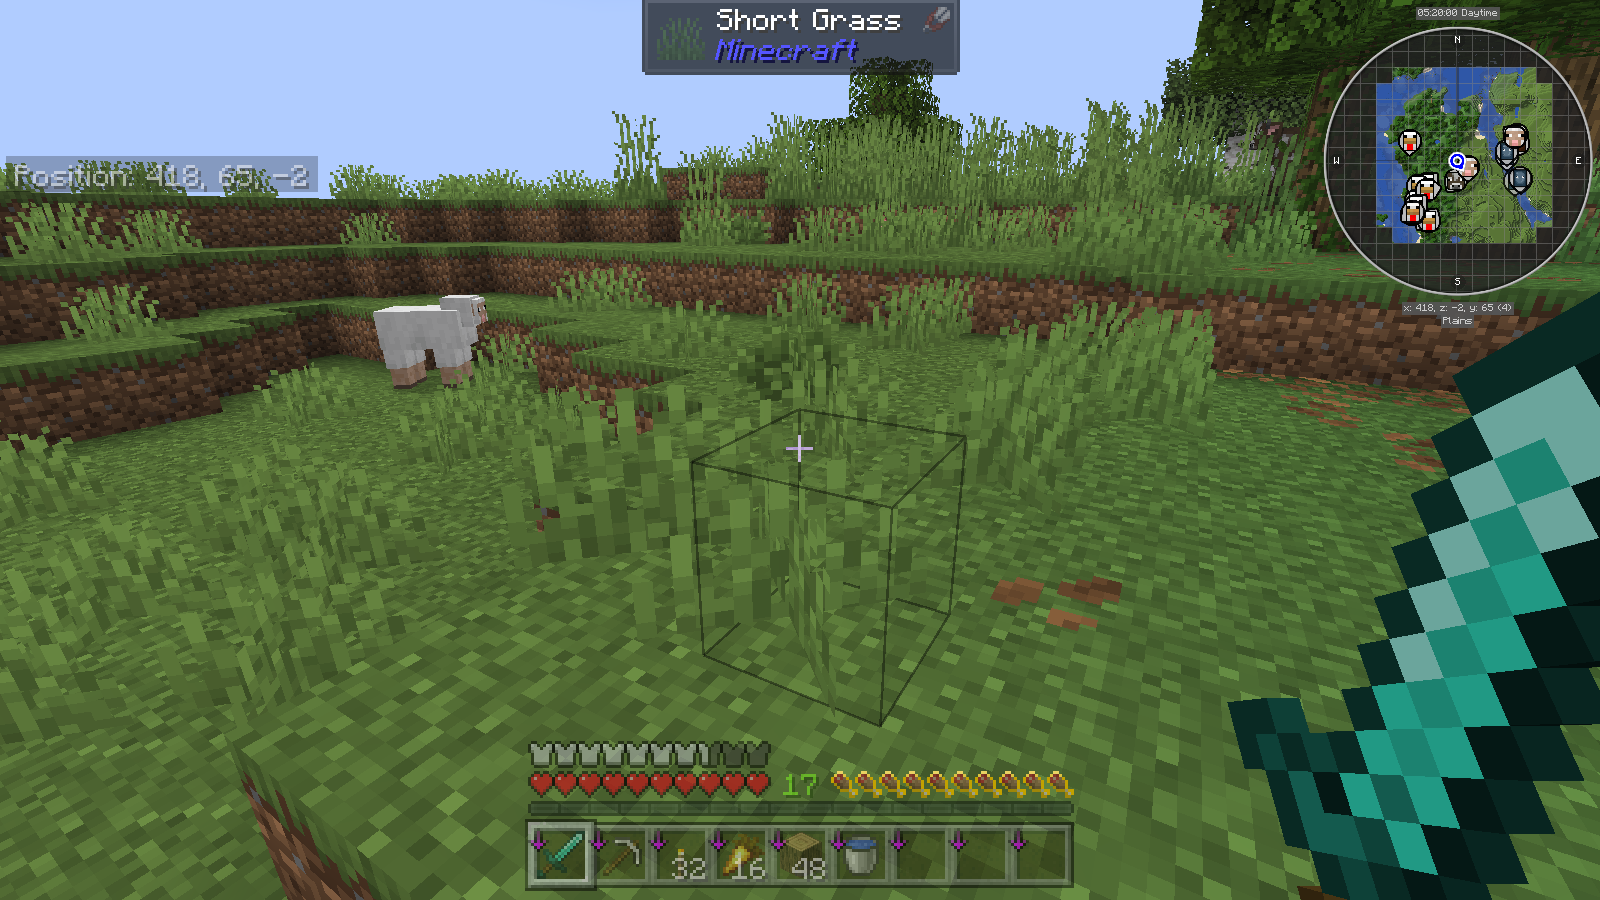
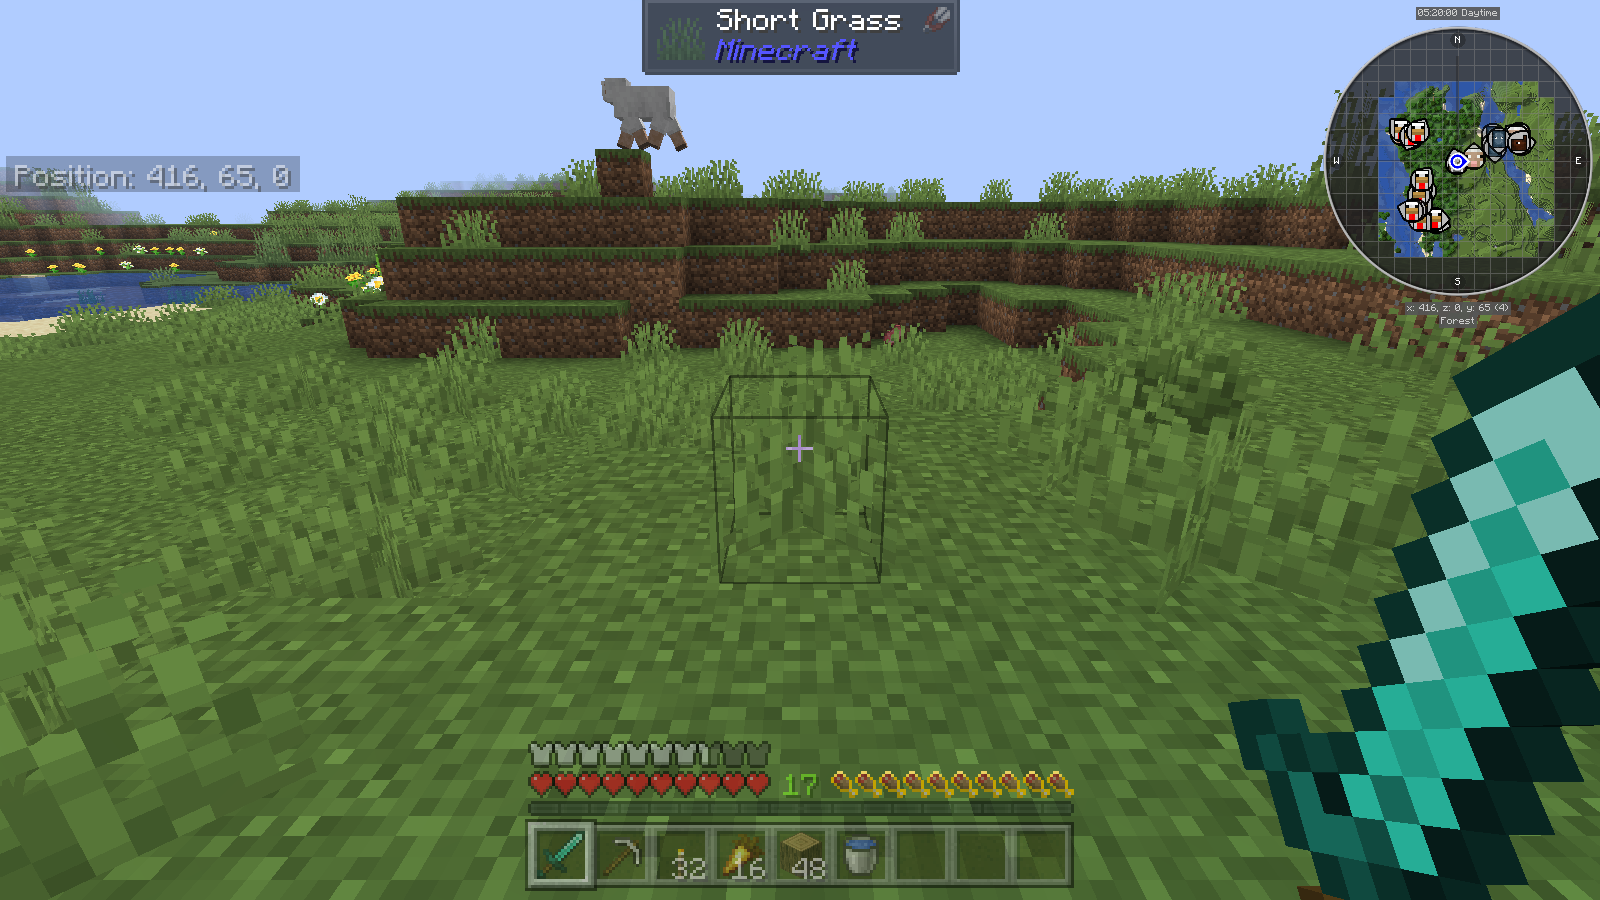
Reshoot page media with the author's settings; add a sway-only clip

diff --git a/src/gametest/java/io/github/irfanadli97/tvomf/test/MediaShoot.java b/src/gametest/java/io/github/irfanadli97/tvomf/test/MediaShoot.java
@@ -29,6 +29,7 @@ import net.minecraft.util.Mth;
  */
 public class MediaShoot implements FabricClientGameTest {
 	static final String REQUEST = "media_request.txt";
+	private static boolean configured;
 	private static final int WIDTH = 1600;
 	private static final int HEIGHT = 900;
 	private static final double CLIP_SECONDS = 5.0;
@@ -49,7 +50,11 @@ public class MediaShoot implements FabricClientGameTest {
 		Path out;
 
 		try {
-			set = Files.readString(gameDir.resolve(REQUEST)).trim();
+			// First line: the name of the set. Second line, optional: "configured" to shoot with
+			// the settings in config/tvomf.json instead of the defaults.
+			List<String> request = Files.readAllLines(gameDir.resolve(REQUEST));
+			set = request.get(0).trim();
+			configured = request.size() > 1 && request.get(1).trim().equals("configured");
 			out = gameDir.resolve("media").resolve(set);
 			Files.createDirectories(out);
 		} catch (IOException e) {
@@ -117,18 +122,34 @@ public class MediaShoot implements FabricClientGameTest {
 			// Long enough for toasts and first-run chat lines from other mods to go away.
 			context.waitTicks(320);
 
-			still(context, set + "_1_visor_sphere", config -> {
+			still(context, set + "_1_as_configured", config -> {
 			});
-			still(context, set + "_2_visor_cylinder", config -> config.curveShape = MotionHudConfig.SHAPE_CYLINDER);
-			still(context, set + "_3_visor_sphere_strong", config -> config.curveStrength = 70);
+			still(context, set + "_2_sphere_strong", config -> {
+				config.curveShape = MotionHudConfig.SHAPE_SPHERE;
+				config.curveStrength = 70;
+			});
+			still(context, set + "_3_cylinder_strong", config -> {
+				config.curveShape = MotionHudConfig.SHAPE_CYLINDER;
+				config.curveStrength = 70;
+			});
 			still(context, set + "_4_flat_for_comparison", config -> config.curveEnabled = false);
 
-			clip(context, out, baseYaw);
+			walkClip(context, out, baseYaw);
+			context.waitTicks(40);
+			flickClip(context, out, baseYaw);
 			write(gameDir.resolve("media_done.txt"), List.of(set));
 		}
 	}
 
 	/** The mod's default settings, so the pictures show what a new install looks like. */
+	private static void baseline() {
+		if (configured) {
+			MotionHudConfig.load();
+		} else {
+			defaults(MotionHudConfig.get());
+		}
+	}
+
 	private static void defaults(MotionHudConfig config) {
 		config.resetSway();
 		config.swayEnabled = true;
@@ -142,17 +163,16 @@ public class MediaShoot implements FabricClientGameTest {
 
 	private static void still(ClientGameTestContext context, String name, Consumer<MotionHudConfig> change) {
 		context.runOnClient(minecraft -> {
-			MotionHudConfig config = MotionHudConfig.get();
-			defaults(config);
-			change.accept(config);
+			baseline();
+			change.accept(MotionHudConfig.get());
 			HudSway.setTestOffset(Float.NaN, Float.NaN);
 		});
 		context.waitTicks(20);
 		context.takeScreenshot(name);
 	}
 
-	private static void clip(ClientGameTestContext context, Path out, float baseYaw) {
-		context.runOnClient(minecraft -> defaults(MotionHudConfig.get()));
+	private static void walkClip(ClientGameTestContext context, Path out, float baseYaw) {
+		context.runOnClient(minecraft -> baseline());
 		context.waitTicks(20);
 
 		context.runOnClient(minecraft -> FrameCapture.start(out.resolve("clip.raw"), out.resolve("clip.meta"), CLIP_SECONDS, CLIP_FPS,
@@ -185,6 +205,40 @@ public class MediaShoot implements FabricClientGameTest {
 
 		context.getInput().releaseKey(options -> options.keySprint);
 		context.getInput().releaseKey(options -> options.keyUp);
+	}
+
+	/** Standing still and flicking the view hard from side to side: nothing but the sway. */
+	private static void flickClip(ClientGameTestContext context, Path out, float walkYaw) {
+		context.runOnClient(minecraft -> baseline());
+		// The walk ended somewhere else, so find an open view again.
+		float baseYaw = context.computeOnClient(MediaShoot::clearestYaw);
+		context.runOnClient(minecraft -> {
+			minecraft.player.setYRot(baseYaw);
+			minecraft.player.setXRot(9.0f);
+		});
+		context.waitTicks(30);
+
+		context.runOnClient(minecraft -> FrameCapture.start(out.resolve("flick.raw"), out.resolve("flick.meta"), CLIP_SECONDS, CLIP_FPS,
+				time -> new float[] {baseYaw + flick(time), 9.0f}));
+
+		while (!FrameCapture.finished()) {
+			context.waitTick();
+		}
+	}
+
+	private static final double[] FLICK_TIMES = {0.4, 0.9, 1.4, 1.9, 2.5, 2.8, 3.1, 3.4, 4.0};
+	private static final float[] FLICK_ANGLES = {50, -50, 50, -50, 30, -30, 30, -30, 0};
+	/** Seconds one flick takes; about as fast as a wrist does it. */
+	private static final double FLICK_SECONDS = 0.1;
+
+	private static float flick(double time) {
+		float angle = 0;
+
+		for (int i = 0; i < FLICK_TIMES.length; i++) {
+			angle = Mth.lerp(ease(time, FLICK_TIMES[i], FLICK_TIMES[i] + FLICK_SECONDS), angle, FLICK_ANGLES[i]);
+		}
+
+		return angle;
 	}
 
 	/** The direction with the most open space ahead, so the camera is not staring at a tree. */

diff --git a/README.md b/README.md
@@ -15,16 +15,24 @@ your face, and the visor moves when you do.
 
 ## See it move
 
-Just this mod, on the vanilla HUD. Look right, snap left, jump, then sprint:
+Just the sway: standing still and flicking the mouse hard from side to side.
+
+![The HUD lagging behind fast mouse flicks](docs/media/solo_flick.webp)
+
+Everything at once on the vanilla HUD. Look right, snap left, jump, then sprint:
 
 ![The vanilla HUD swaying, bobbing and curving](docs/media/solo_clip.webp)
 
-The same five seconds with about fifty other mods loaded, including a minimap, block tooltips and
-a paper doll, all riding the visor:
+The same two takes with about fifty other mods loaded, including a minimap, block tooltips and a
+paper doll, all riding the visor:
+
+![A heavily modded HUD lagging behind fast mouse flicks](docs/media/full_flick.webp)
 
 ![A heavily modded HUD swaying, bobbing and curving](docs/media/full_clip.webp)
 
-Both clips use the default settings.
+These were shot with the author's own settings, not the defaults: a stronger sway (`maxOffset`
+44, `damping` 0.37, `sensitivity` 0.25, `motionSensitivity` 28) and a gentler curve (cylinder,
+strength 9, rising to 18 with a 2.5% zoom-out while sprinting; bob 2 and 3.5).
 
 ## What the visor does
 
@@ -49,9 +57,9 @@ Motion is the point, so stills undersell it, but here is the curve standing stil
 
 | | Just this mod | With a full mod set |
 |---|---|---|
-| Curve, default strength | ![](docs/media/solo_1_visor_sphere.png) | ![](docs/media/full_1_visor_sphere.png) |
-| Cylinder shape | ![](docs/media/solo_2_visor_cylinder.png) | ![](docs/media/full_2_visor_cylinder.png) |
-| Curve turned up to 70 | ![](docs/media/solo_3_visor_sphere_strong.png) | ![](docs/media/full_3_visor_sphere_strong.png) |
+| Author's settings (cylinder, strength 9) | ![](docs/media/solo_1_as_configured.png) | ![](docs/media/full_1_as_configured.png) |
+| Sphere, turned up to 70 | ![](docs/media/solo_2_sphere_strong.png) | ![](docs/media/full_2_sphere_strong.png) |
+| Cylinder, turned up to 70 | ![](docs/media/solo_3_cylinder_strong.png) | ![](docs/media/full_3_cylinder_strong.png) |
 | Curve off, for comparison | ![](docs/media/solo_4_flat_for_comparison.png) | ![](docs/media/full_4_flat_for_comparison.png) |
 | Mid-turn | ![](docs/media/solo_5_mid_turn.png) | ![](docs/media/full_5_mid_turn.png) |
 | Sprinting | ![](docs/media/solo_6_sprinting.png) | ![](docs/media/full_6_sprinting.png) |
@@ -161,9 +169,10 @@ first.
 
 ## Page media
 
-`make-media.ps1 -ModSet solo` (or `full`) shoots the stills and the five second clip in
-`docs/media` from a scripted run in the test client: 1600x900, default settings, the same camera
-path every time. It needs ffmpeg on the PATH. For `full`, put the other mods' jars in
+`make-media.ps1 -ModSet solo` (or `full`) shoots the stills and the two five second clips in
+`docs/media` from a scripted run in the test client: 1600x900, the same camera path every time.
+Add `-SettingsFile path\to\tvomf.json` to shoot with your own settings instead of the defaults.
+It needs ffmpeg on the PATH. For `full`, put the other mods' jars in
 `build/run/clientGameTest/mods-full`.
 
 ## Credits and licence
